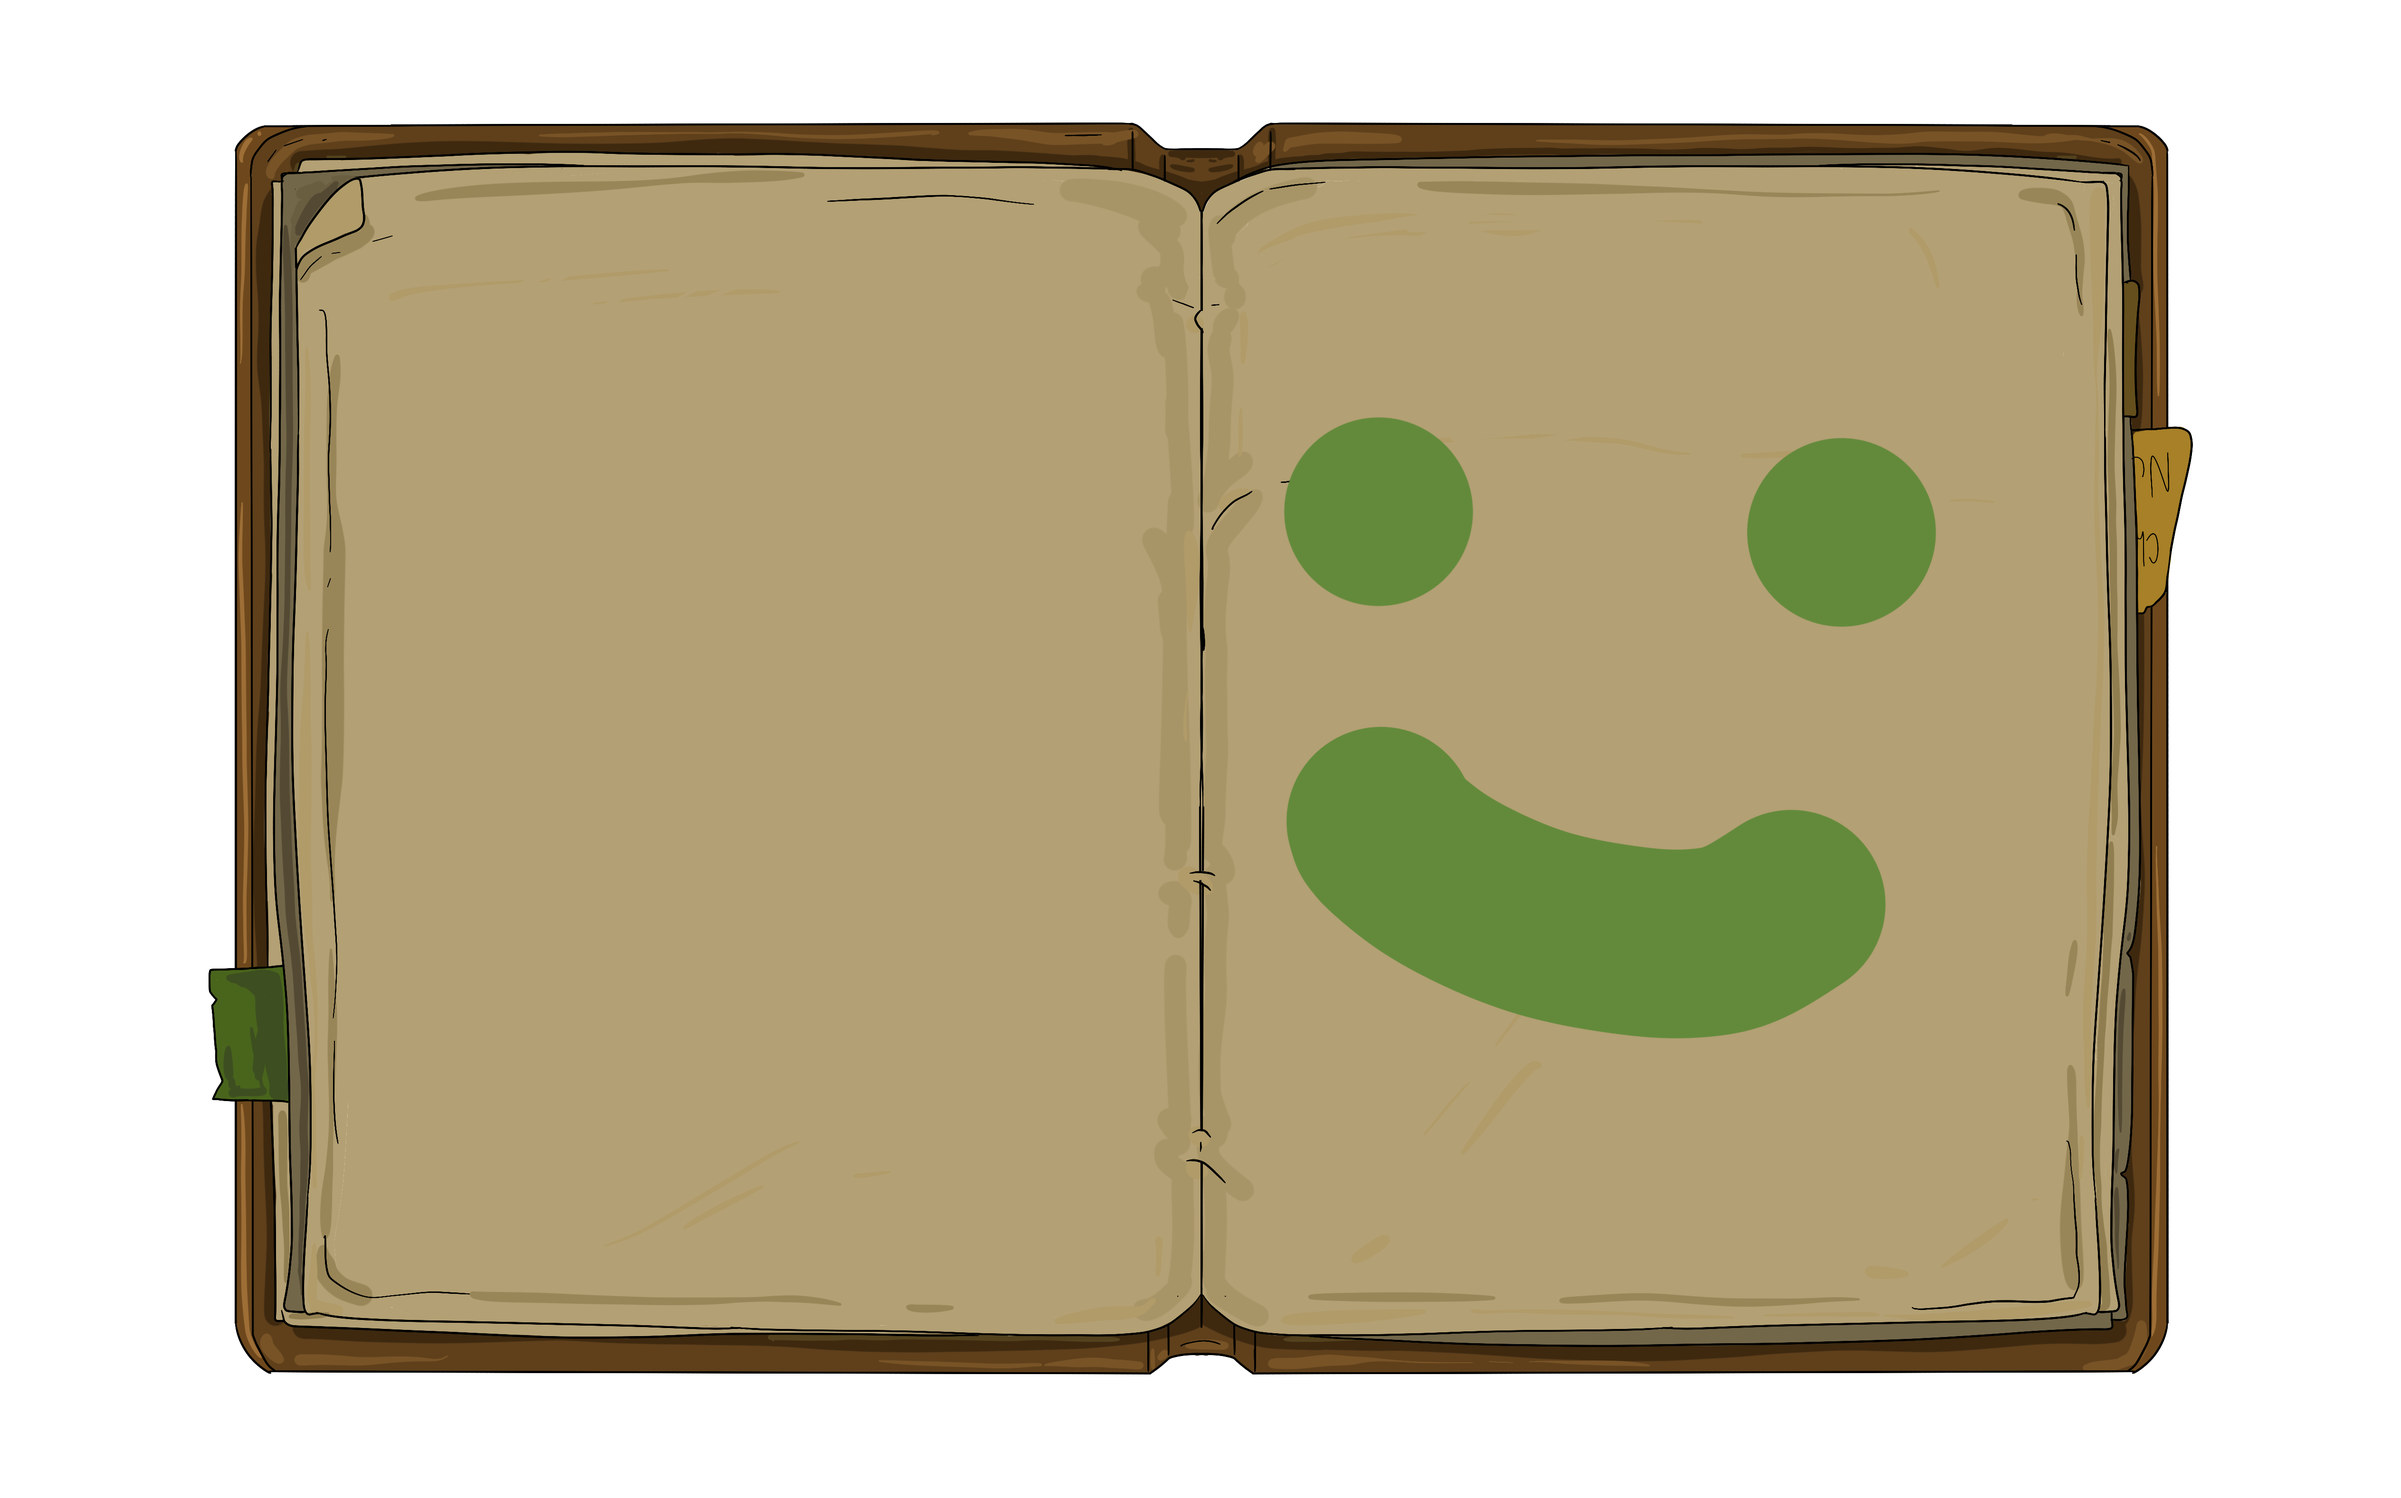
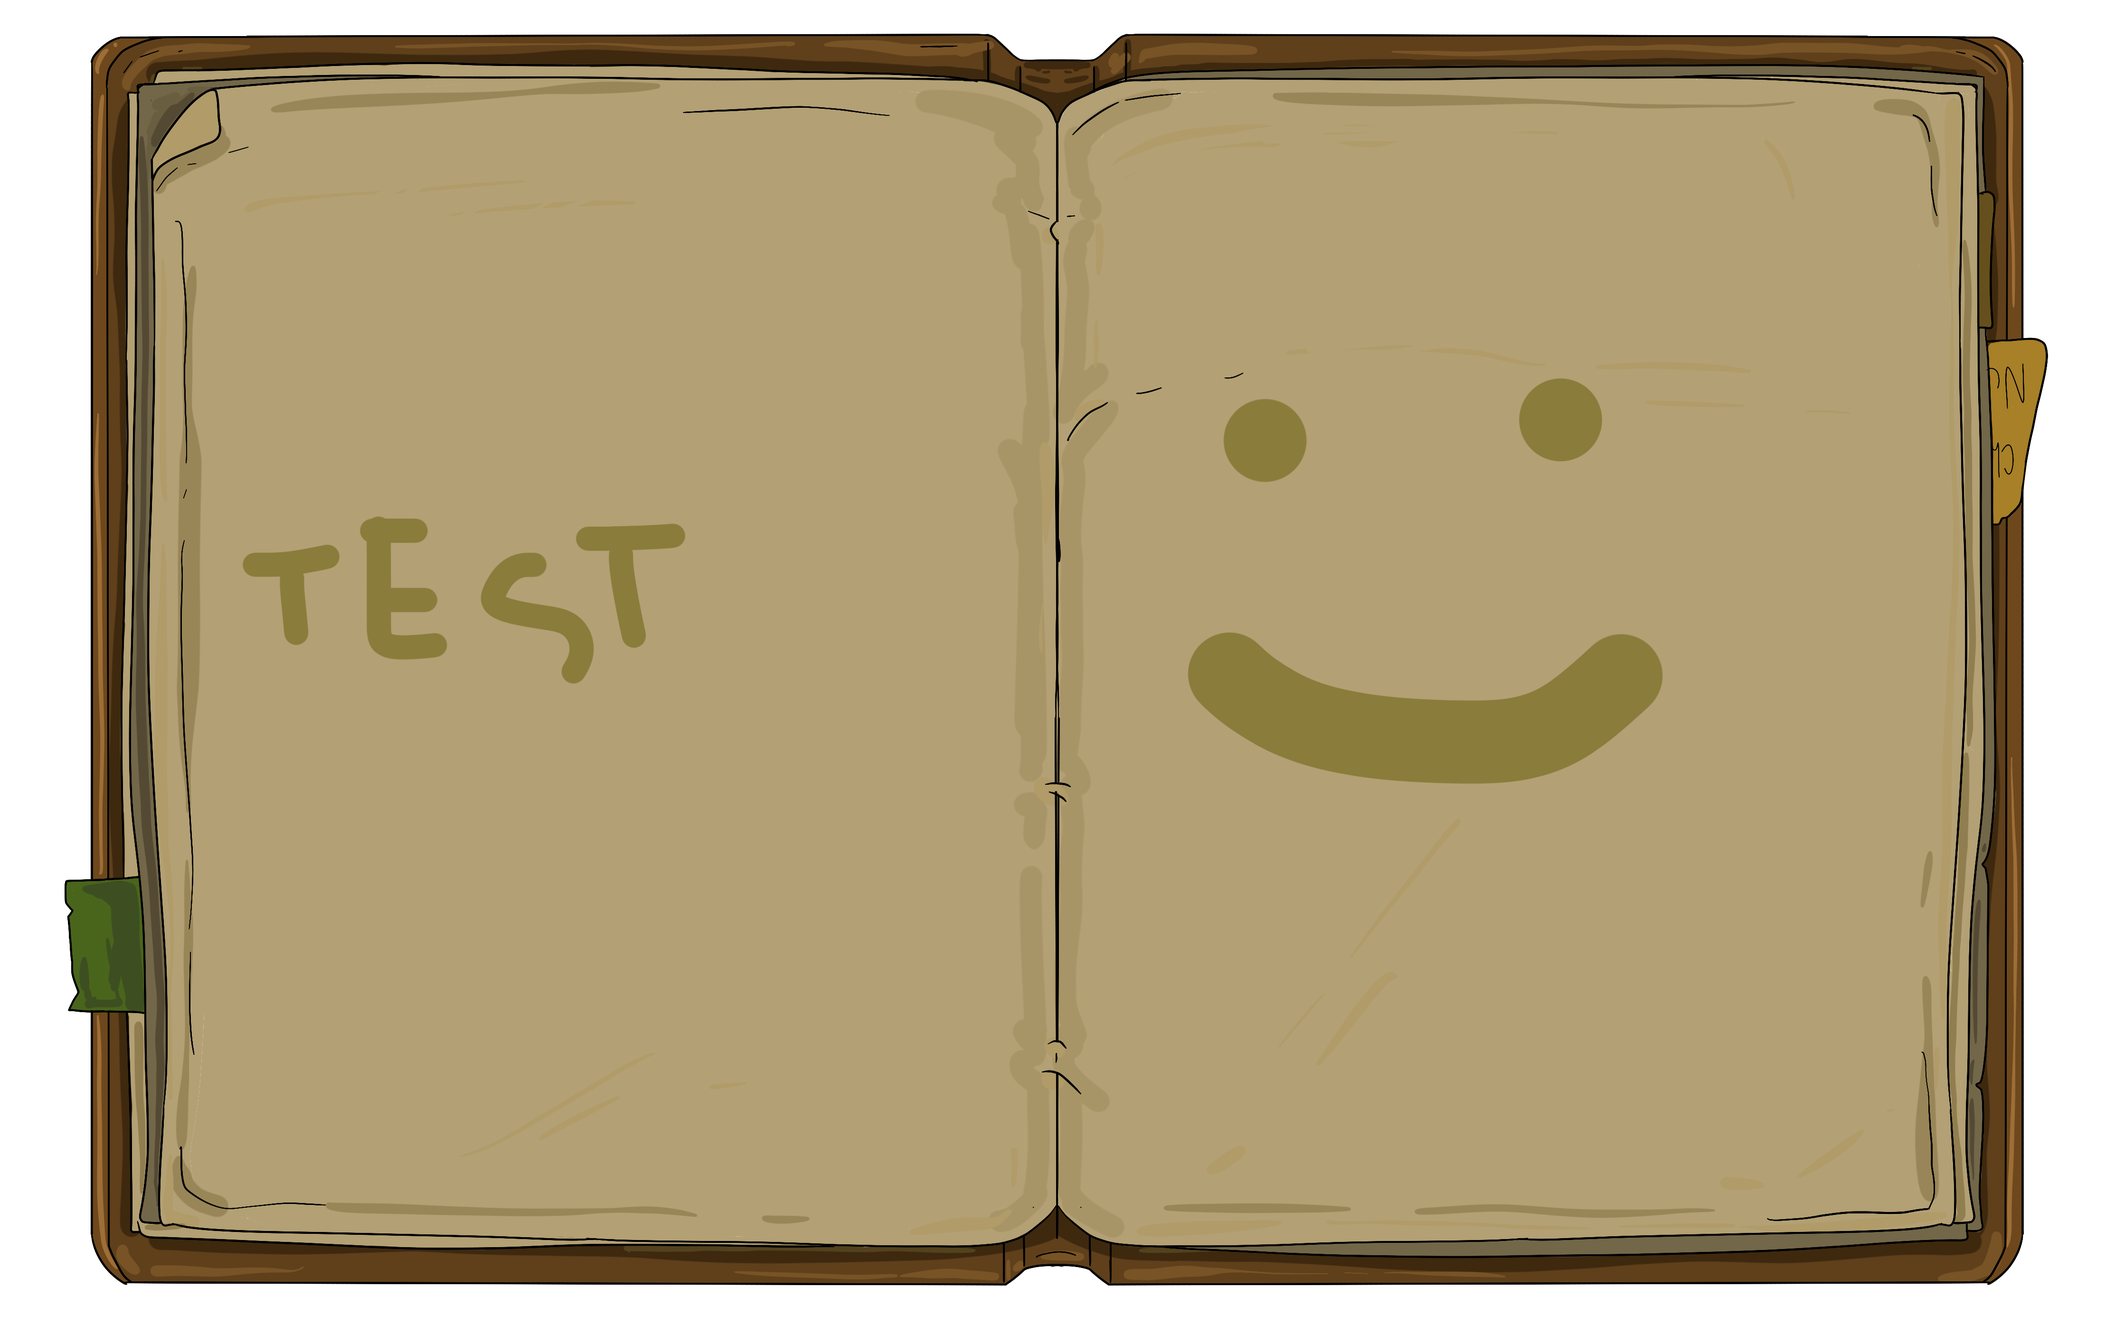
Update cropped images and maximize display size
Pull cropped Field Notes images and remove container padding
to maximize image display area

diff --git a/src/components/field-notes.tsx b/src/components/field-notes.tsx
@@ -123,10 +123,10 @@ export function FieldNotes({ onClose, onMinimize }: FieldNotesProps) {
         <div className="h-full w-full bg-[#5a9c5a]" />
       </div>
 
-      <div className="flex-1 bg-[#c8b9a9] flex items-center justify-between px-1">
+      <div className="flex-1 bg-[#c8b9a9] flex items-center justify-between">
         <button
           onClick={handlePreviousNote}
-          className="flex-shrink-0 hover:scale-110 transition-transform cursor-pointer"
+          className="flex-shrink-0 hover:scale-110 transition-transform cursor-pointer px-1"
           aria-label="Previous note"
         >
           <NavigationArrow direction="left" />
@@ -142,7 +142,7 @@ export function FieldNotes({ onClose, onMinimize }: FieldNotesProps) {
 
         <button
           onClick={handleNextNote}
-          className="flex-shrink-0 hover:scale-110 transition-transform cursor-pointer"
+          className="flex-shrink-0 hover:scale-110 transition-transform cursor-pointer px-1"
           aria-label="Next note"
         >
           <NavigationArrow direction="right" />
